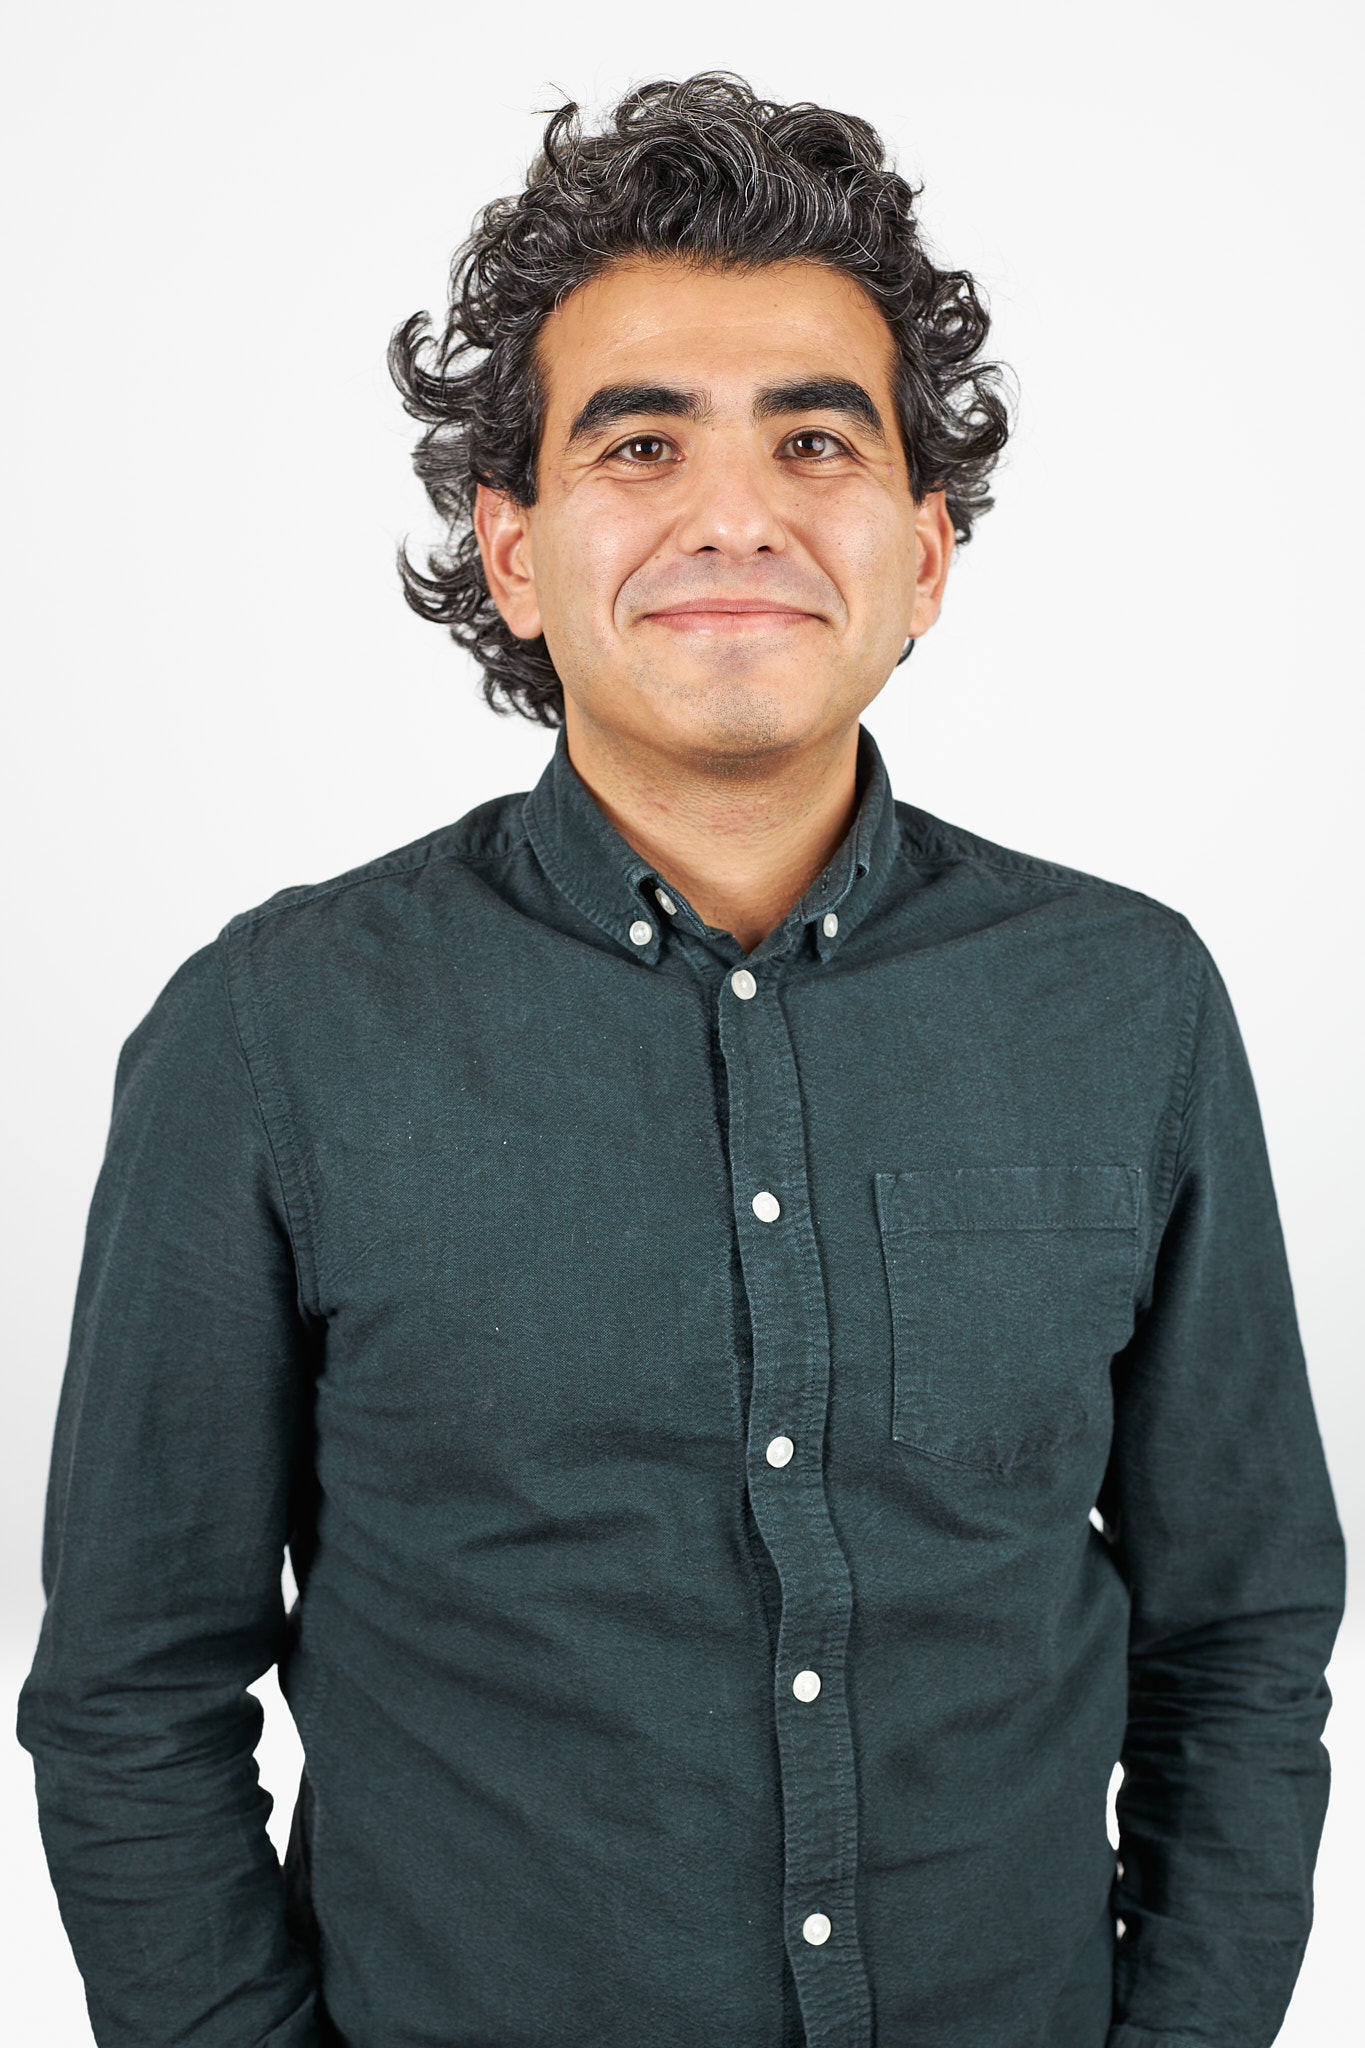
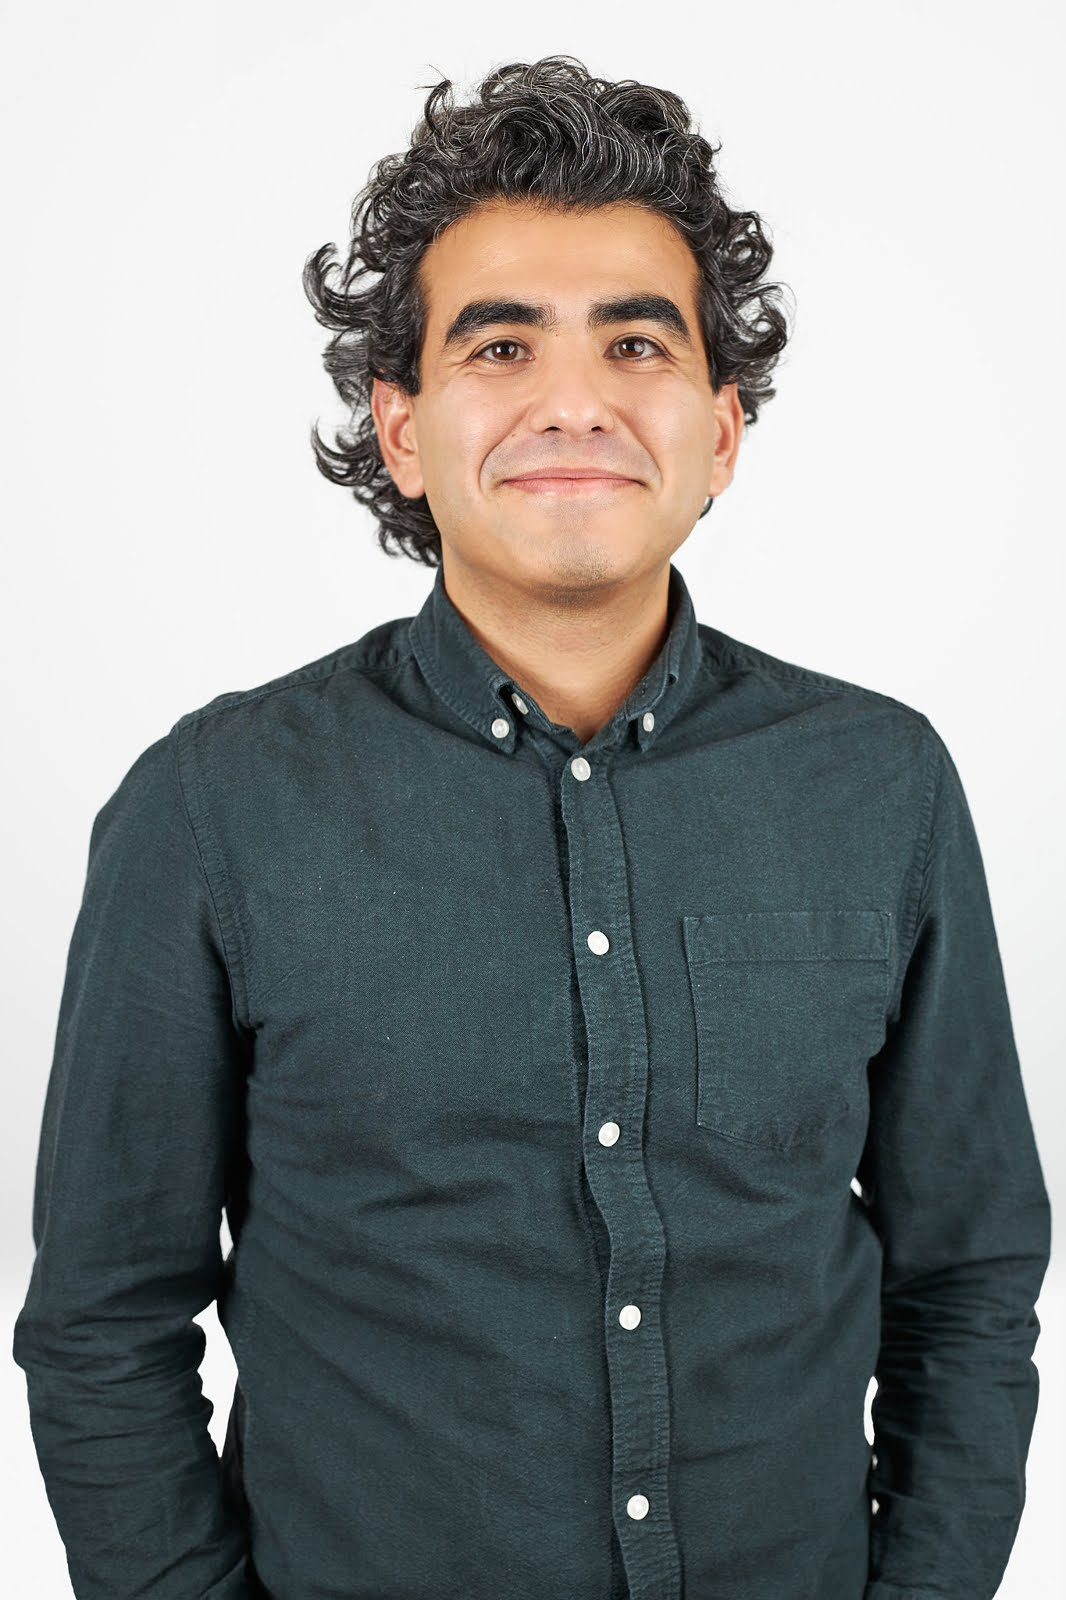
Style skills component

diff --git a/src/App.css b/src/App.css
@@ -443,7 +443,7 @@ nav.navbar .navbar-toggler[aria-expanded="true"] .navbar-toggler-icon {
 }
 
 .skill-slider .item img {
-    width: 50%;
+    width: 40%;
     margin: 0 auto 15px auto;
 }
 
